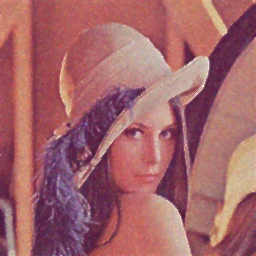
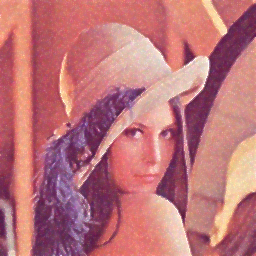
add README.md

diff --git a/homework2-t3/enhance.py b/homework2-t3/enhance.py
@@ -158,11 +158,11 @@ def enhance_image(image, edge_weight=0.3):
     
     # 7. 调整亮度和对比度
     # Sobel边缘增强结果的亮度调整
-    enhanced_sobel_bright = adjust_brightness_contrast(enhanced_sobel, alpha=1.1, beta=20)
+    enhanced_sobel_bright = adjust_brightness_contrast(enhanced_sobel, alpha=1.3, beta=20)
     cv2.imwrite('lena_4_sobel.png', enhanced_sobel_bright)
     
     # Laplacian边缘增强结果的亮度调整
-    enhanced_laplacian_bright = adjust_brightness_contrast(enhanced_laplacian, alpha=1.1, beta=20)
+    enhanced_laplacian_bright = adjust_brightness_contrast(enhanced_laplacian, alpha=1.3, beta=20)
     cv2.imwrite('lena_4_laplacian.png', enhanced_laplacian_bright)
     
     return enhanced_sobel  # 默认返回Sobel增强结果

diff --git a/README.md b/README.md
@@ -1,0 +1,100 @@
+# 数字图像处理实验项目
+
+本项目包含一系列数字图像处理实验，主要涵盖图像去噪、图像增强和图像分析等主题。每个实验位于单独的文件夹中，拥有各自的实现和说明文档。
+
+## 项目结构
+
+```
+digital-image-enhance-lkh/
+│
+├── homework2-t1/     # 实验一：不同滤波方法的图像去噪对比分析
+├── homework2-t2/     # 实验二：二值图像生成与均值滤波处理
+├── homework2-t3/     # 实验三：多种图像增强与去噪方法实现
+└── README.md        # 项目主说明文档
+```
+
+## 实验内容
+
+### 实验一：不同滤波方法的图像去噪对比分析 (homework2-t1)
+
+该实验比较了不同滤波方法对噪声图像的去噪效果，并分析了模板大小对处理速度的影响以及不同方法之间的时间效率。
+
+**主要内容：**
+- 实现均值滤波、中值滤波、高斯滤波和双边滤波四种方法
+- 使用MSE、PSNR和SSIM三种指标评估去噪效果
+- 分析不同滤波方法的性能和效果
+- 可视化处理结果和性能指标对比
+
+**关键文件：**
+- `noise_reduction_comparison.py`：主程序文件
+- `/noise images`：噪声图像目录
+- `/results`：处理结果输出目录
+
+### 实验二：二值图像生成与均值滤波处理 (homework2-t2)
+
+该实验包含二值图像生成和均值滤波处理两部分，并分析滤波前后的直方图变化。
+
+**主要内容：**
+- 生成左白右黑的二值图像和黑白相间的棋盘格图像
+- 对图像进行3x3均值滤波处理
+- 计算并分析滤波前后的灰度直方图变化
+
+**关键文件：**
+- `image_gen.py`：二值图像生成脚本
+- `filter_and_histogram.py`：均值滤波和直方图处理脚本
+- `/results`：处理结果存储目录
+
+### 实验三：多种图像增强与去噪方法实现 (homework2-t3)
+
+该实验实现了多种图像增强和去噪方法，用于处理含噪声的图像。
+
+**主要内容：**
+- 实现椒盐噪声和高斯噪声的添加
+- 实现多种边缘检测和增强方法（Roberts、Sobel、Laplacian等）
+- 实现多种去噪方法（形态学滤波、小波变换、K近邻滤波、自适应中值滤波）
+- 调整图像亮度和对比度
+- 比较不同去噪和增强方法的效果
+
+**关键文件：**
+- `add_noise.py`：添加噪声的实现
+- `enhance.py`：基础图像增强方法
+- `ref_enhance.py`：参考增强与去噪方法
+- `/img`：原始图像目录
+- `/denoise_imgs`：去噪结果输出目录
+
+## 使用说明
+
+每个实验都有其独立的依赖和使用方法，请参考各个实验目录下的README.md文件获取详细信息。
+
+### 共同依赖库
+
+大多数实验需要以下依赖库：
+- NumPy
+- OpenCV (cv2)
+- Matplotlib
+- SciPy
+
+对于特定实验，可能需要额外的库，如：
+- scikit-image：用于计算SSIM指标（实验一）
+- PyWavelets：用于小波变换去噪（实验三）
+
+### 安装依赖
+
+```bash
+pip install numpy opencv-python matplotlib scipy scikit-image pywavelets
+```
+
+## 注意事项
+
+1. 请确保按照各实验的README中的步骤顺序运行脚本
+2. 某些实验可能需要先生成中间结果，然后再进行后续处理
+3. 处理大图像时，某些算法可能需要较长时间运行
+4. 所有实验的结果都会保存在各自的输出目录中
+
+## 作者
+
+骆谦实
+
+## 许可
+
+本项目用于教育目的，遵循[MIT许可证](https://opensource.org/licenses/MIT)。 
